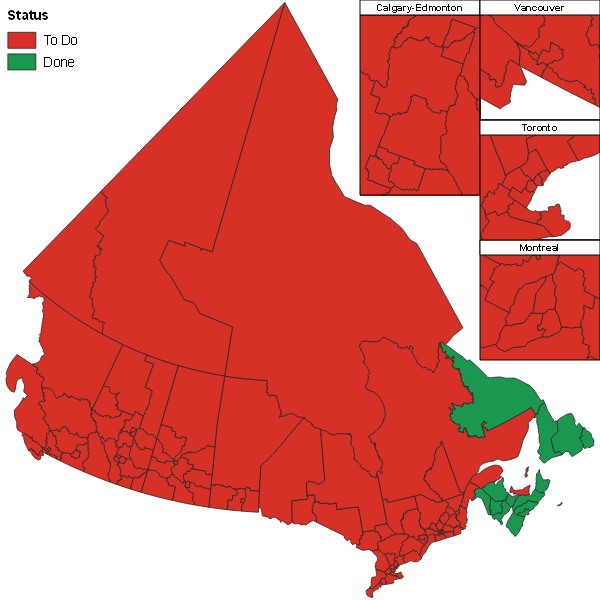
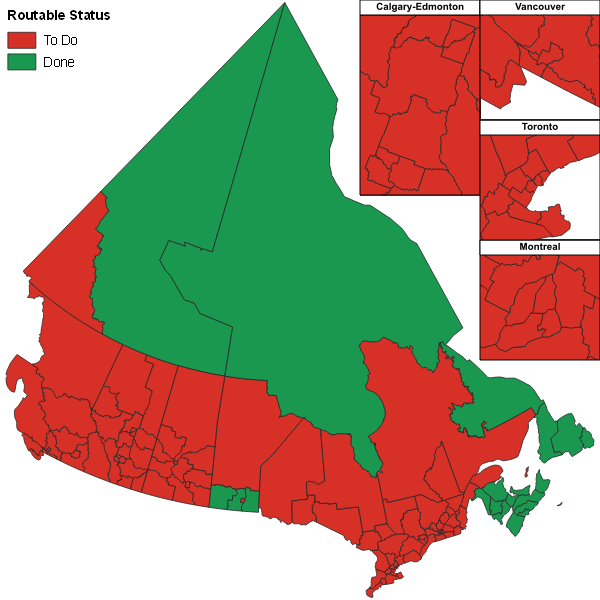
Updated progress maps - creation, conflation and routable

diff --git a/docs/source/road_network_collapse/meshblock_conflation.rst b/docs/source/road_network_collapse/meshblock_conflation.rst
@@ -205,4 +205,4 @@ Progress
 .. figure:: /source/_static/progress/meshblock_conflation_progress_map.png
     :alt: Meshblock conflation progress map.
 
-    Figure: Meshblock conflation progress map as of November 18, 2022.
+    Figure: Meshblock conflation progress map as of January 23, 2023.

diff --git a/docs/source/road_network_collapse/meshblock_creation.rst b/docs/source/road_network_collapse/meshblock_creation.rst
@@ -400,4 +400,4 @@ Progress
 .. figure:: /source/_static/progress/meshblock_creation_progress_map.png
     :alt: Meshblock creation progress map.
 
-    Figure: Meshblock creation progress map as of November 18, 2022.
+    Figure: Meshblock creation progress map as of January 23, 2023.

diff --git a/docs/source/road_network_collapse/routable_crn.rst b/docs/source/road_network_collapse/routable_crn.rst
@@ -89,4 +89,4 @@ Progress
 .. figure:: /source/_static/progress/routable_crn_progress_map.png
     :alt: Routable CRN progress map.
 
-    Figure: Routable CRN progress map as of November 14, 2022.
+    Figure: Routable CRN progress map as of January 23, 2023.
